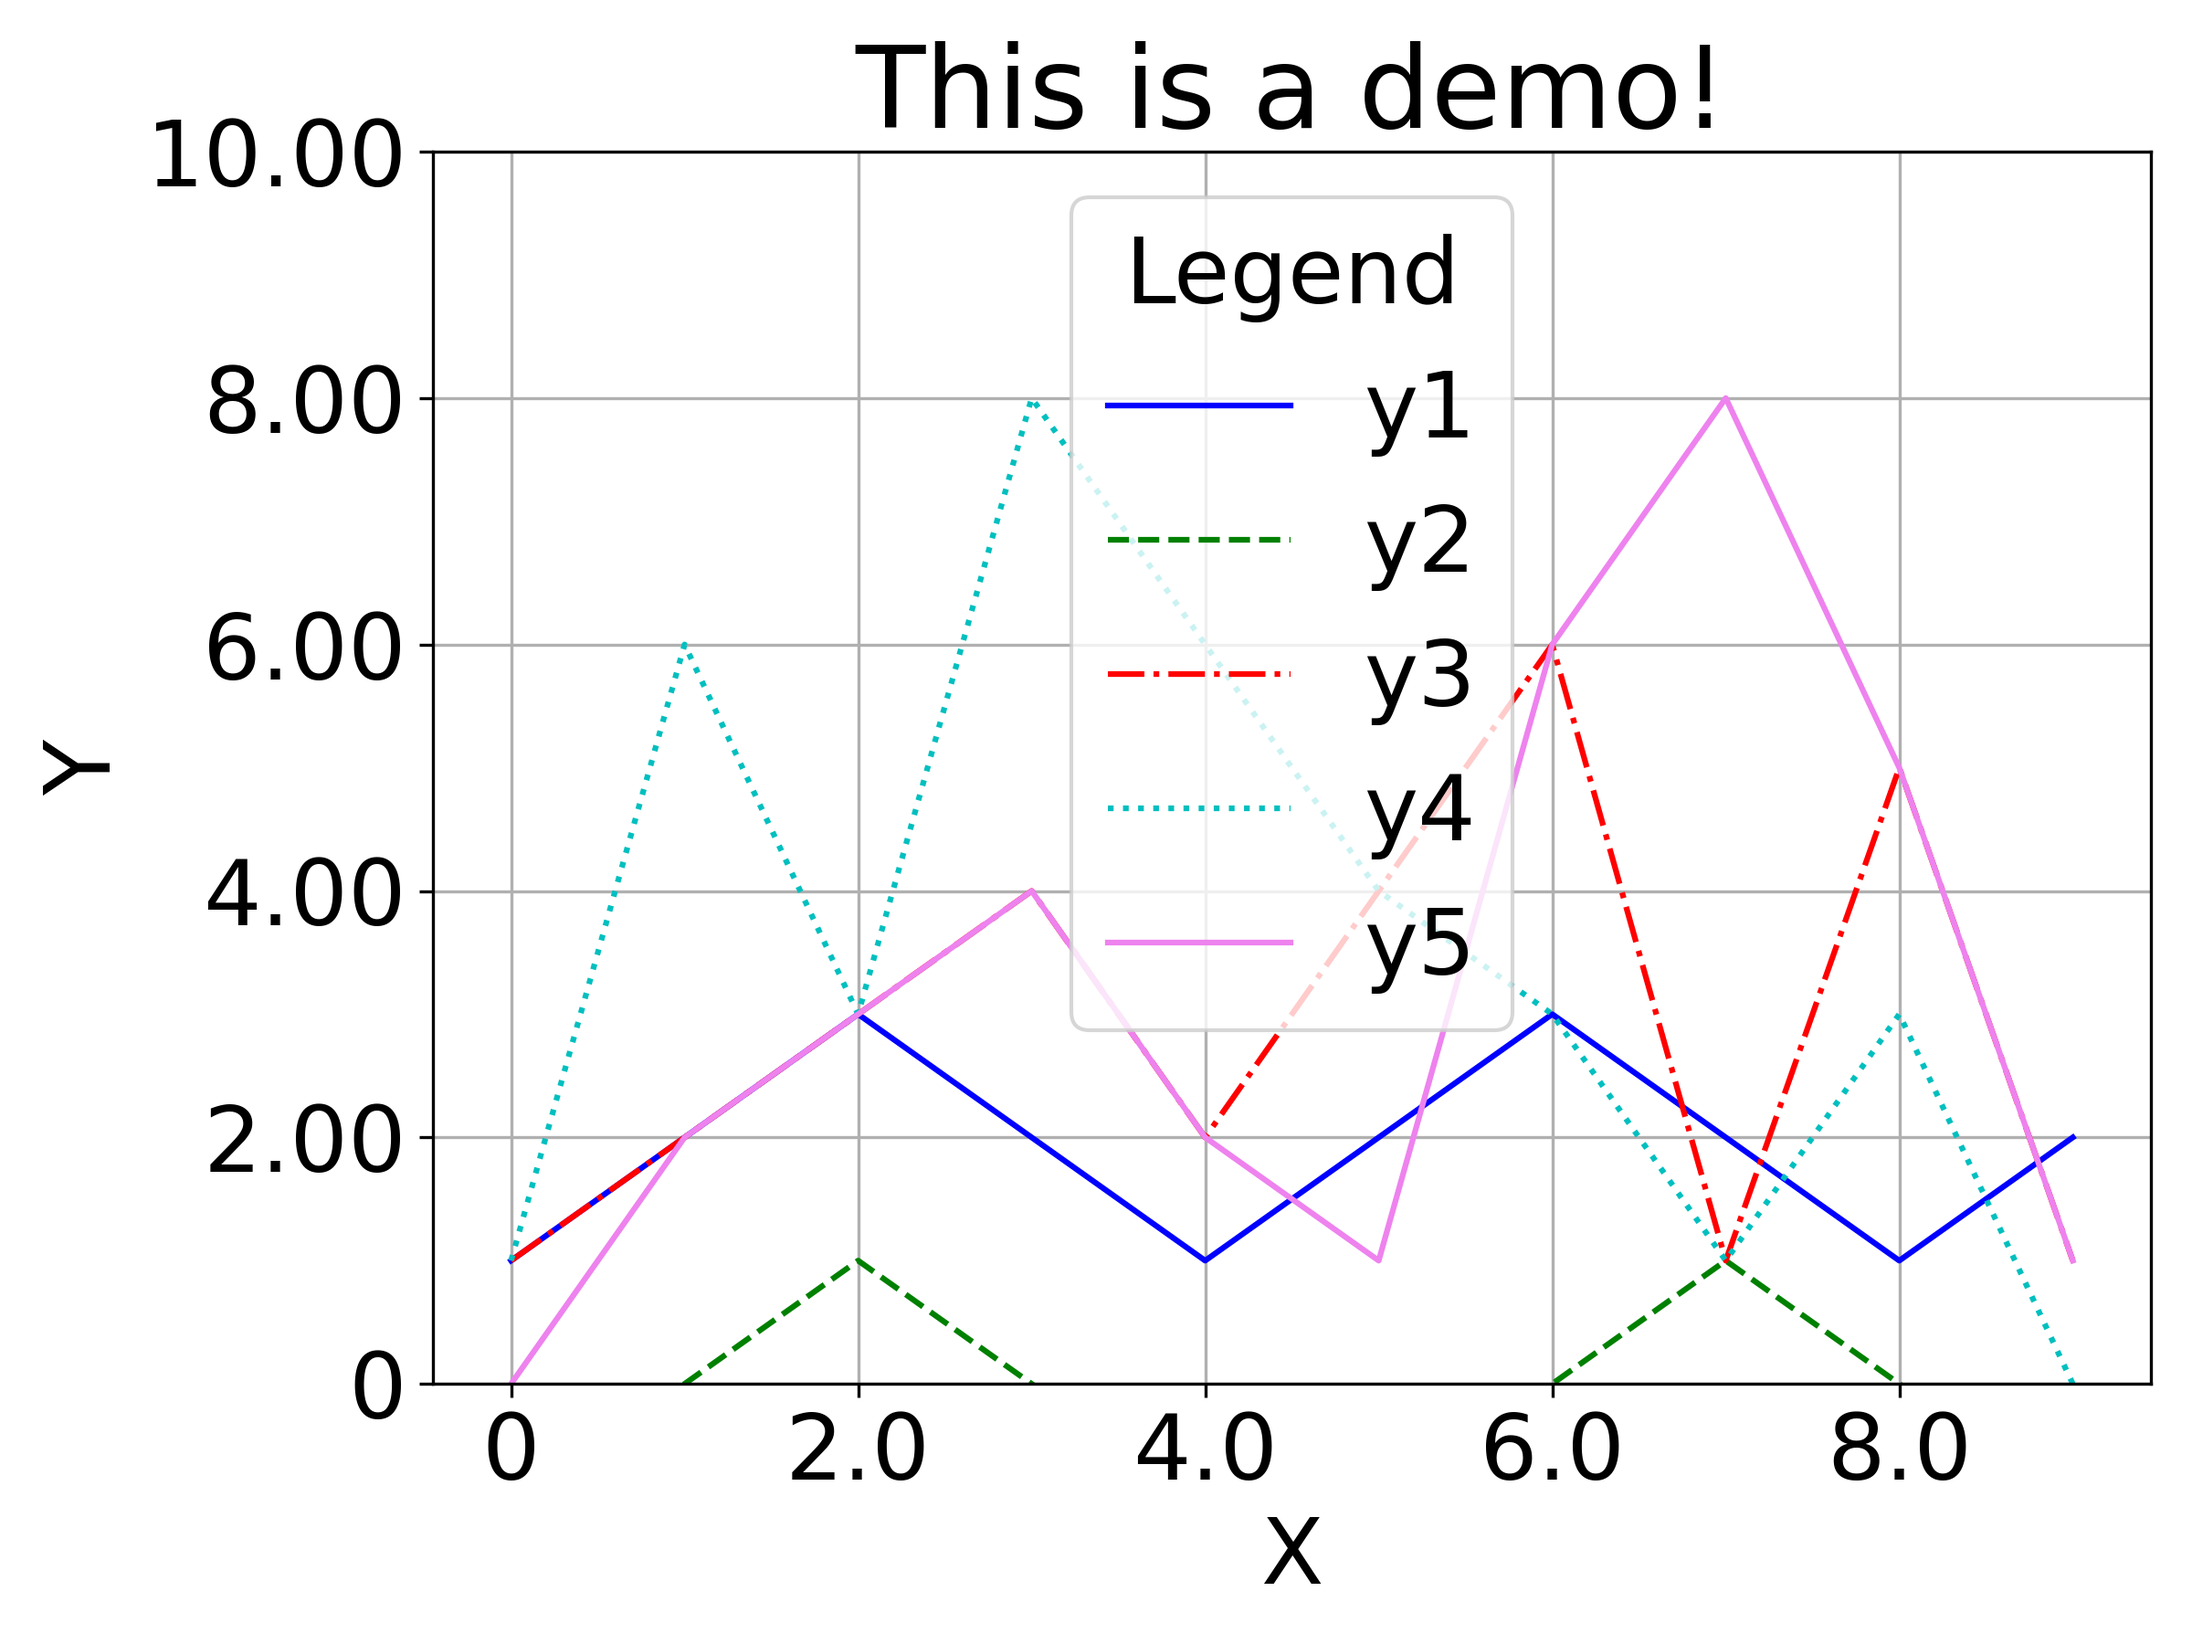
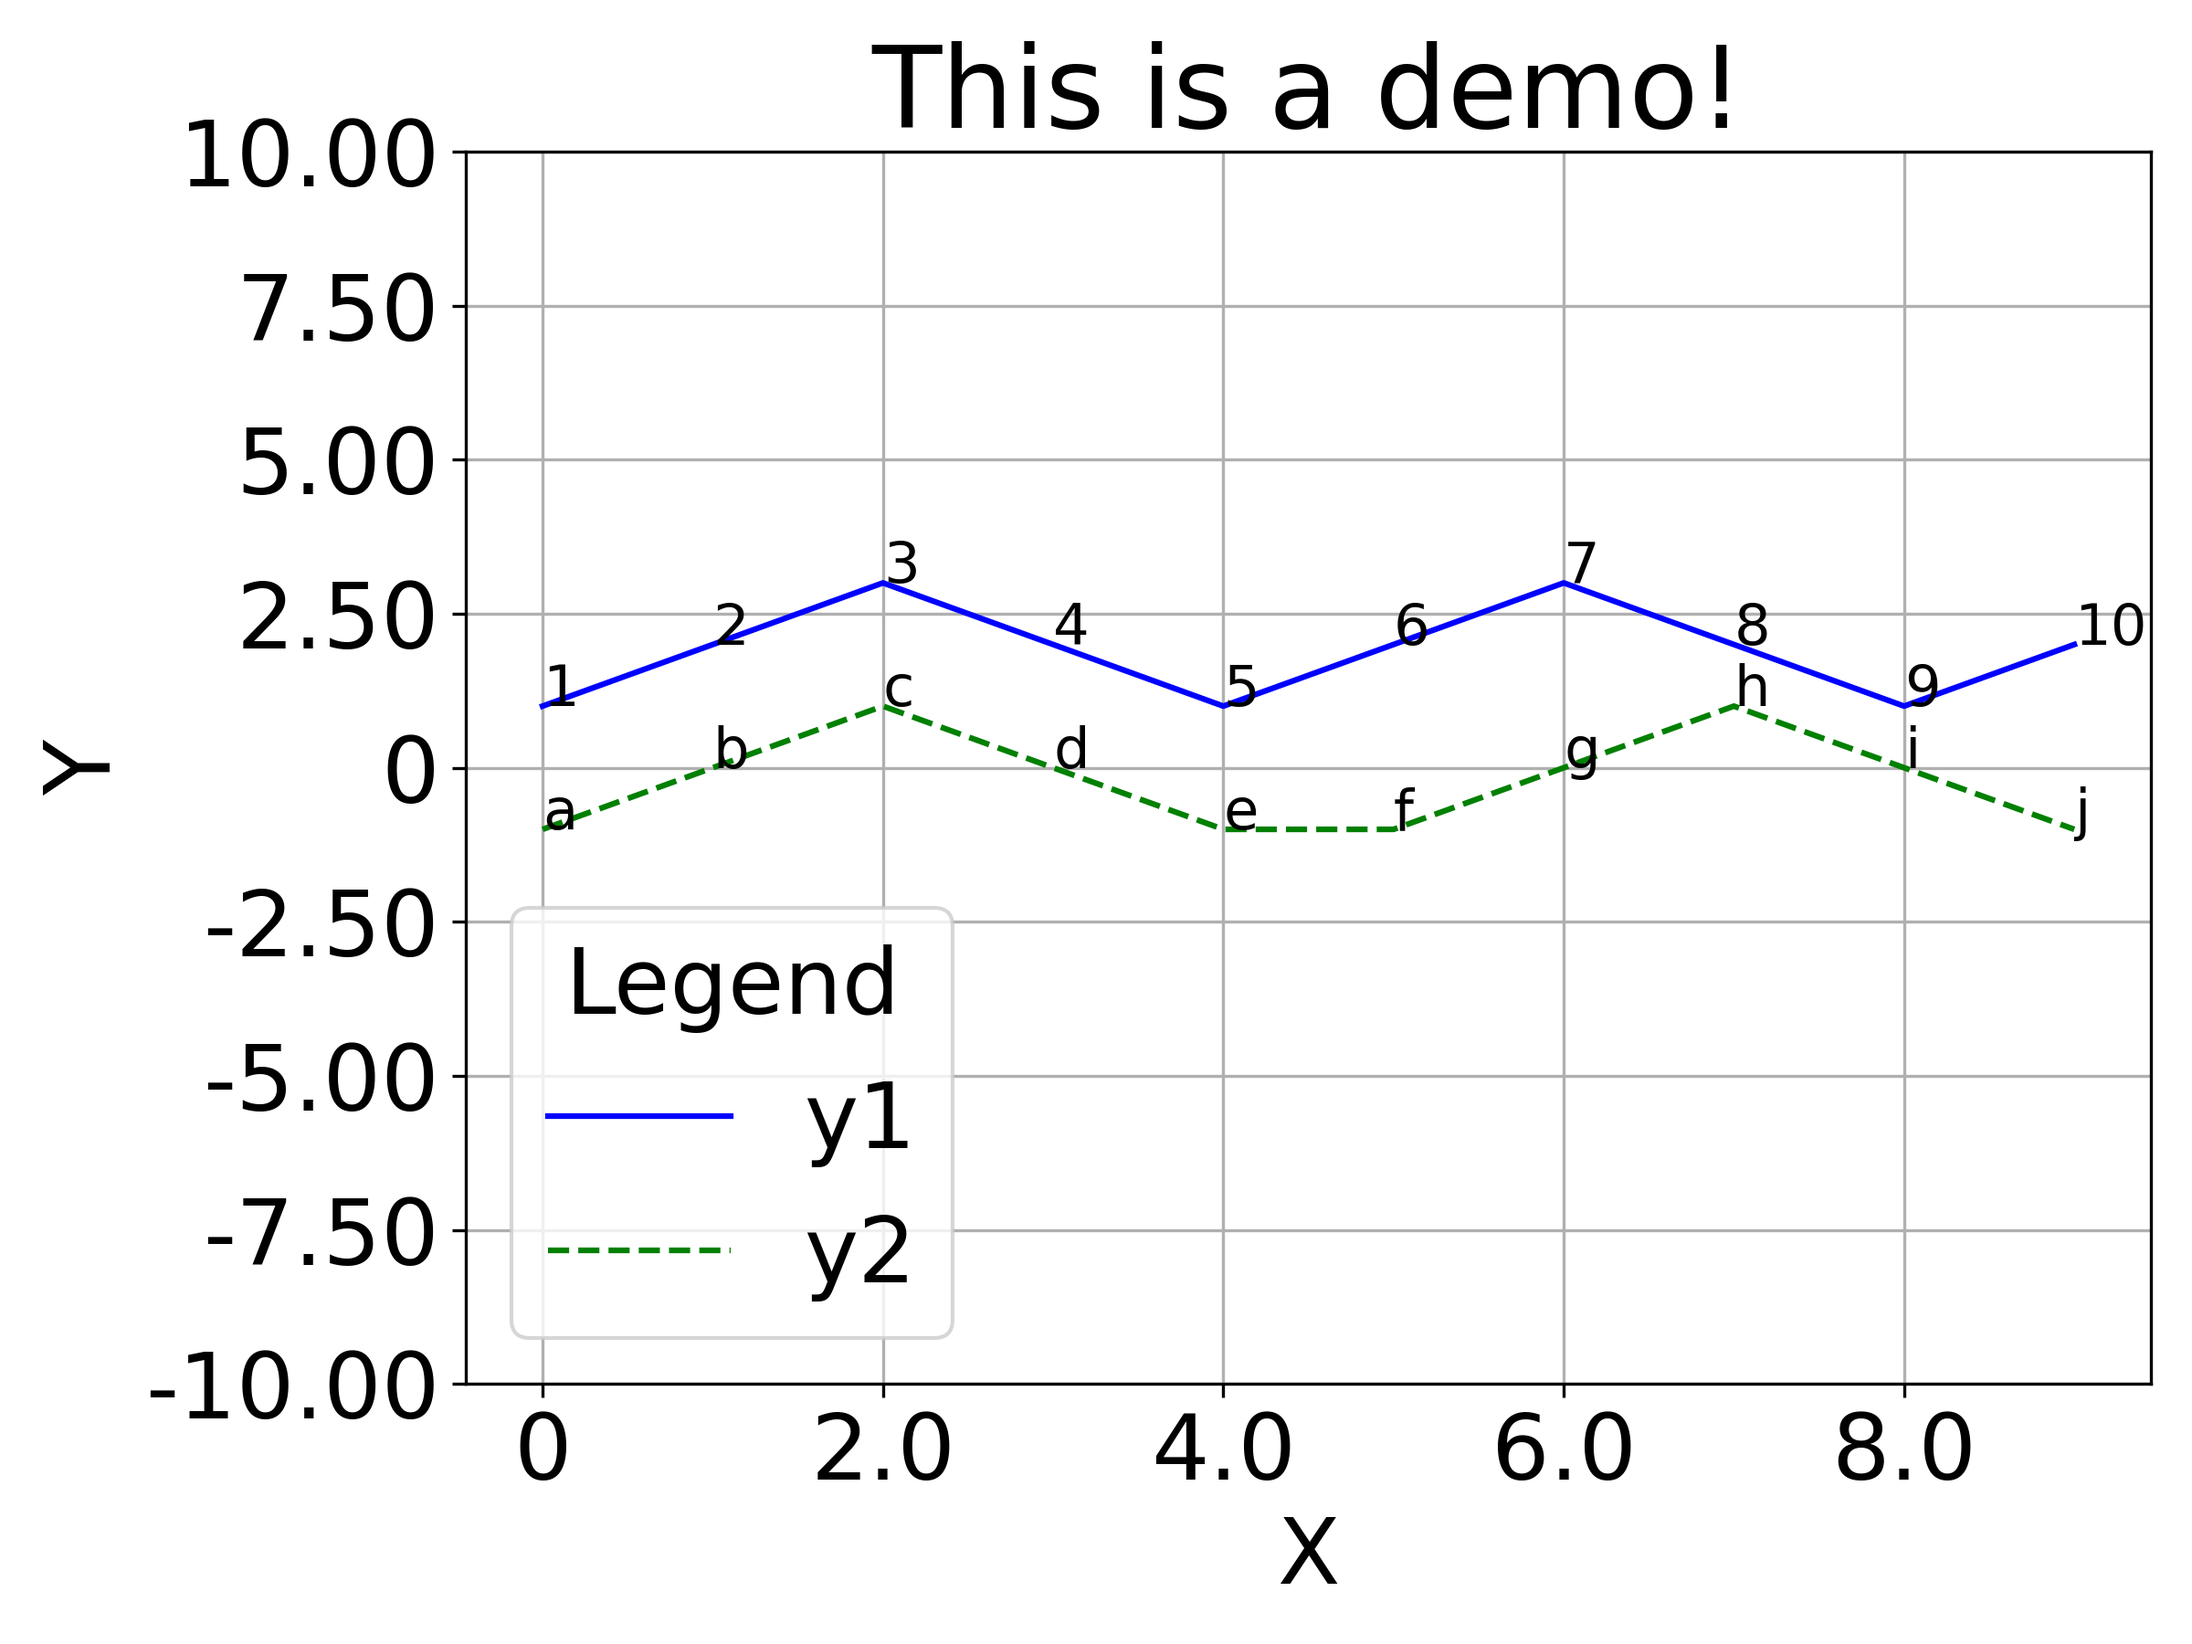
Update plotter

diff --git a/pyplotter/plot.py b/pyplotter/plot.py
@@ -17,6 +17,7 @@ class Pyplot_config:
         self.marker_list = ['o', '.', '*', '+', 'v']
         self.edge_color_list = ['black', 'black', 'black', 'black', 'black', 'black', 'black', 'black']
         self.label_size = int(fontsize * 0.8)
+        self.data_size = int(fontsize * 0.5)
         self.tick_size = int(fontsize * 0.8)
         self.title_size = fontsize
         self.legend_size = int(fontsize * 0.8)
@@ -33,7 +34,7 @@ class Plotter(Pyplot_config):
         pass
 
     # 用于画折线图, 有几条线就画几个
-    def plot_lines(self, x_list=None, y_list=None, legend_label_list=None, x_label="x", y_label="y", title=None,
+    def plot_lines(self, x_list=None, y_list=None, data_label_list=None, legend_label_list=None, x_label="x", y_label="y", title=None,
                    x_grid=False, y_grid=True, y_min=None, y_max=None, x_tick_ndigits=1, y_tick_ndigits=2,
                    save_root="./", filename="demo.png", is_show=False,
                    legend_loc="best", legend_title="legend"):
@@ -72,6 +73,15 @@ class Plotter(Pyplot_config):
         # 调整 tick 的字体大小
         plt.xticks(fontsize=self.tick_size)
         plt.yticks(fontsize=self.tick_size)
+
+        # 分别在每一条线上的数据点上显示对应数据标签
+        if data_label_list != None:
+            for index, y in enumerate(y_list):
+                data_label = data_label_list[index]
+                i = 0
+                for x, y in zip(x_list[index], y_list[index]):
+                    plt.text(x, y, data_label[i], fontsize=self.data_size)
+                    i += 1
 
         # 网格线
         if x_grid and y_grid:
@@ -231,7 +241,7 @@ class Plotter(Pyplot_config):
     def plot_boxes(self, x: List[str] = None, box_data_list=None, legend_label_list=None, x_label="Replicas",
                    y_label="Cost",
                    legend_title="legend", legend_loc="best", legend_ncol=1, bbox_to_anchor=None, x_tick_ndigits=1,
-                   y_tick_ndigits=2,
+                   y_tick_ndigits=2, is_data_label=False,
                    save_root="./", filename="demo.png", is_show=False):
 
         fig = plt.figure(figsize=self.figsize, dpi=300)
@@ -287,6 +297,14 @@ class Plotter(Pyplot_config):
                             bbox_to_anchor=bbox_to_anchor)
         legend.get_title().set_fontsize(fontsize=self.legend_size)
         legend._legend_box.align = "left"
+
+        # 在图上显示box的平均值
+        if is_data_label:
+            for i in range(len(legend_label_list)):
+                box_data = box_data_list[i]
+                for j in range(len(x)):
+                    mean = np.mean(box_data[j])
+                    ax.text(position[j] + interval * i, mean, '%.1f' % mean, ha='center', va='bottom', fontsize=self.data_size)
 
         plt.tight_layout()
         savepath = os.path.join(save_root, filename)

diff --git a/pyplotter/example.py b/pyplotter/example.py
@@ -12,13 +12,14 @@ if __name__ == "__main__":
 
     my_plotter.plot_lines(
         x_list=[[i for i in range(len(y1))] for i in range(5)],
-        y_list=[y1, y2, y3, y4, y5],
-        legend_label_list=["y1", "y2", "y3", "y4", "y5"],
+        y_list=[y1, y2],
+        legend_label_list=["y1", "y2"],
+        data_label_list=[["1","2","3","4","5","6","7","8","9","10"],["a","b","c","d","e","f","g","h","i","j"]],
         x_label="X",
         y_label="Y",
         x_grid=True,
         y_grid=True,
-        y_min=0,
+        y_min=-10,
         y_max=10,
         legend_loc="best",
         legend_title="Legend",
@@ -42,6 +43,7 @@ if __name__ == "__main__":
         legend_label_list=["1234", "2345", "3451", "4512"],
         x_label="x",
         y_label="y",
+        is_data_label=True,
         save_root="./results",
         filename="plot_boxes_demo"
     )
